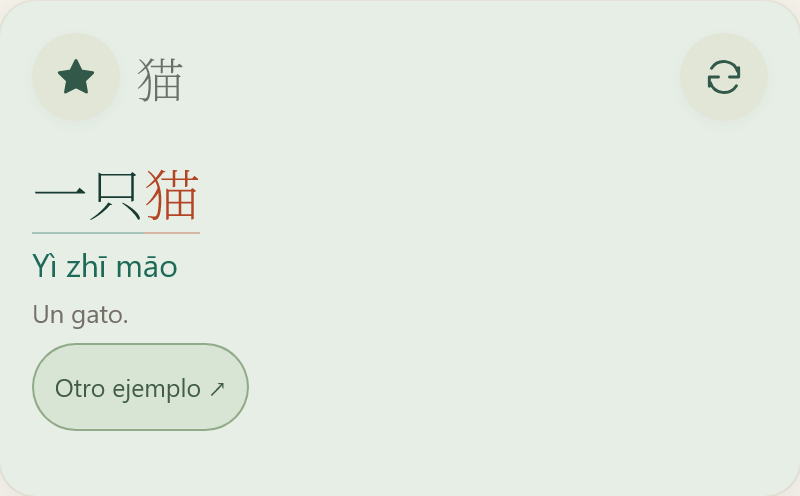
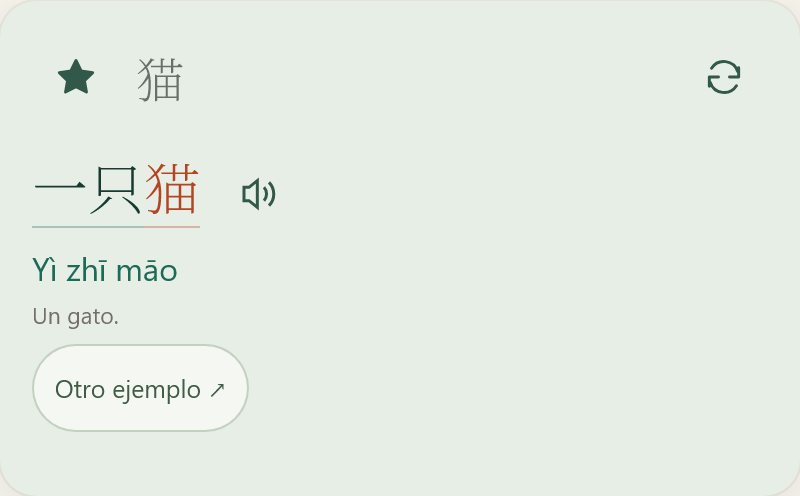
fix(vocabulary): support touch search and expanding mobile cards

diff --git a/components/vocabulary/ActiveVocabulary.tsx b/components/vocabulary/ActiveVocabulary.tsx
@@ -26,6 +26,7 @@ export function ActiveVocabulary({ scope, userId = 'guest', mode = 'catalog' }: 
   const [active, setActive] = useState(-1);
   const composing = useRef(false);
   const searchRef = useRef<HTMLInputElement>(null);
+  const suggestionTouch = useRef<{ id: string; x: number; y: number } | null>(null);
   const candidates = useMemo(() => getVocabularySet(scope).filter(w => !favoritesOnly || data.favorites.includes(w.id)), [scope, favoritesOnly, data.favorites]);
   const results = useMemo(() => searchVocabulary(candidates, query), [candidates, query]);
   const suggestions = searchGlobalVocabulary(query).slice(0, 6);
@@ -53,6 +54,7 @@ export function ActiveVocabulary({ scope, userId = 'guest', mode = 'catalog' }: 
     const index = getVocabularySet(destination).findIndex(word => word.id === id);
     const next = new URLSearchParams({ page: String(Math.floor(index / 24) + 1), card: id });
     resetCardFaces();
+    suggestionTouch.current = null;
     setOpen(false); setActive(-1);
     router.push(mix ? `/study/${destination}/games/vocabulary-mix?q=${encodeURIComponent(word.hanzi)}` : `/study/${destination}/vocabulary?${next}`, { scroll: false });
   }
@@ -74,13 +76,28 @@ export function ActiveVocabulary({ scope, userId = 'guest', mode = 'catalog' }: 
     <header className="vocabulary-heading"><div><p className="eyebrow">{mix ? '游戏' : '词汇'} · MÍNG</p><h1>{mix ? 'Vocabulario Mix' : 'Vocabulario'}</h1></div><small role="status">{saved ? 'Guardado en este dispositivo' : 'Almacenamiento no disponible; cambios solo en esta visita'}</small></header>
     <div className="vocabulary-toolbar">
       <div className="vocabulary-lesson-controls"><select aria-label="Lección" value={scope} onChange={e => { resetCardFaces(); const next = new URLSearchParams(params.toString()); for (const key of ['page', 'card', 'q', 'source', 'selection', 'level', 'mode']) next.delete(key); router.push(`/study/${e.target.value}/${section}?${next}`); }}>{lessonScopes.map((s, i) => <option key={s} value={s}>{s === 'l1-l2-l3' ? 'Acumulado' : `Lección ${i + 1}`}</option>)}</select><button type="button" aria-label="Solo favoritos" title="Solo favoritos de esta lección" aria-pressed={favoritesOnly} onClick={() => change({ favorites: favoritesOnly ? '' : '1', card: '' })}>{favoritesOnly ? '★' : '☆'}</button></div>
-      <div className="vocabulary-search"><label htmlFor="vocabulary-search">Buscar</label><div className="vocabulary-search-line"><input id="vocabulary-search" ref={searchRef} className={hanziInputClass(query)} value={query} role="combobox" aria-autocomplete="list" aria-controls="vocabulary-suggestions" aria-expanded={open} aria-activedescendant={open && active >= 0 && suggestions[active] ? `suggestion-${active}` : undefined} autoComplete="off" placeholder="Hanzi, pinyin o español" onFocus={() => { resetCardFaces(); setOpen(Boolean(query)); }} onBlur={() => setOpen(false)} onCompositionStart={() => { composing.current = true; }} onCompositionEnd={() => { composing.current = false; }} onChange={e => { change({ q: e.target.value, card: '' }); setOpen(Boolean(e.target.value)); setActive(-1); }} onKeyDown={e => {
+      <div className="vocabulary-search"><label htmlFor="vocabulary-search">Buscar</label><div className="vocabulary-search-line"><input id="vocabulary-search" ref={searchRef} className={hanziInputClass(query)} value={query} role="combobox" aria-autocomplete="list" aria-controls="vocabulary-suggestions" aria-expanded={open} aria-activedescendant={open && active >= 0 && suggestions[active] ? `suggestion-${active}` : undefined} autoComplete="off" placeholder="Hanzi, pinyin o español" onFocus={() => { resetCardFaces(); setOpen(Boolean(query)); }} onBlur={() => { if (!suggestionTouch.current) setOpen(false); }} onCompositionStart={() => { composing.current = true; }} onCompositionEnd={() => { composing.current = false; }} onChange={e => { change({ q: e.target.value, card: '' }); setOpen(Boolean(e.target.value)); setActive(-1); }} onKeyDown={e => {
         if (e.nativeEvent.isComposing || composing.current || e.keyCode === 229) return;
         if (e.key === 'Escape') { setOpen(false); setActive(-1); }
         if (e.key === 'ArrowDown' || e.key === 'ArrowUp') { e.preventDefault(); setOpen(true); setActive(i => suggestions.length ? (i + (e.key === 'ArrowDown' ? 1 : -1) + suggestions.length) % suggestions.length : -1); }
         if (e.key === 'Enter' && open && suggestions.length) { e.preventDefault(); navigateToVocabularyWord(suggestions[Math.max(0, active)].id); }
       }}/>{query && <button type="button" aria-label="Limpiar búsqueda" onClick={() => { change({ q: '', card: '' }); setOpen(false); searchRef.current?.focus(); }}>×</button>}</div>
-        {open && <ul id="vocabulary-suggestions" role="listbox" aria-label="Sugerencias">{suggestions.length ? suggestions.map((w, i) => <li key={w.id} id={`suggestion-${i}`} role="option" aria-selected={i === active} onPointerDown={e => e.preventDefault()} onClick={() => navigateToVocabularyWord(w.id)}><strong>{w.hanzi}</strong> <PinyinText>{w.pinyin}</PinyinText><span>{w.spanish} <small className="vocabulary-lesson-badge">L{getVocabularyLesson(w)}</small></span></li>) : <li role="presentation">Sin resultados en el vocabulario.</li>}</ul>}
+        {open && <ul id="vocabulary-suggestions" role="listbox" aria-label="Sugerencias">{suggestions.length ? suggestions.map((w, i) => <li key={w.id} id={`suggestion-${i}`} role="option" aria-selected={i === active}
+          onPointerDown={e => {
+            if (e.pointerType === 'mouse') e.preventDefault();
+            else suggestionTouch.current = { id: w.id, x: e.clientX, y: e.clientY };
+          }}
+          onPointerUp={e => {
+            const touch = suggestionTouch.current;
+            suggestionTouch.current = null;
+            if (touch?.id === w.id && Math.hypot(e.clientX - touch.x, e.clientY - touch.y) < 12) {
+              e.preventDefault();
+              searchRef.current?.blur();
+              navigateToVocabularyWord(w.id);
+            } else if (document.activeElement !== searchRef.current) setOpen(false);
+          }}
+          onPointerCancel={() => { suggestionTouch.current = null; if (document.activeElement !== searchRef.current) setOpen(false); }}
+          onClick={() => navigateToVocabularyWord(w.id)}><strong>{w.hanzi}</strong> <PinyinText>{w.pinyin}</PinyinText><span>{w.spanish} <small className="vocabulary-lesson-badge">L{getVocabularyLesson(w)}</small></span></li>) : <li role="presentation">Sin resultados en el vocabulario.</li>}</ul>}
       </div>
     </div>
     <p className="vocabulary-count" aria-live="polite">{results.length} {results.length === 1 ? 'palabra' : 'palabras'}</p>

diff --git a/components/vocabulary/vocabulary.css b/components/vocabulary/vocabulary.css
@@ -29,7 +29,12 @@
 
 /* Entire outer surface is golden. Long content or enlarged type may grow it. */
 .vocabulary-card, .vocabulary-mix-surface { position:relative; isolation:isolate; display:flex; flex-direction:column; width:100%; max-width:var(--vocab-max-width); min-width:0; aspect-ratio:var(--vocab-ratio); padding:var(--vocab-padding); border:0; border-radius:var(--vocab-radius); background:var(--vocab-surface); box-shadow:var(--vocab-shadow),0 0 0 1px #ded9cd80; color:var(--vocab-ink); overflow-wrap:anywhere; scroll-margin-top:6rem; }
-.vocabulary-card { transition:background-color .18s ease; }
+.vocabulary-card { display:grid; grid-template-columns:minmax(0,1fr); padding:0; aspect-ratio:auto; transition:background-color .18s ease; }
+/* A spacer sets the minimum golden height; the content can grow the same row.
+   Avoid flex/aspect-ratio intrinsic sizing that can overflow long backs in Safari. */
+.vocabulary-card::before { content:""; grid-area:1 / 1; width:100%; aspect-ratio:var(--vocab-ratio); pointer-events:none; }
+.vocabulary-card-body { grid-area:1 / 1; min-width:0; display:flex; flex-direction:column; padding:var(--vocab-padding); }
+.vocabulary-card-body > * { flex-shrink:0; }
 .vocabulary-card.is-search-target { outline:3px solid var(--vocab-focus); outline-offset:3px; }
 .vocabulary-card-tools { position:relative; z-index:3; display:flex; justify-content:space-between; gap:.5rem; min-height:var(--vocab-touch); margin-bottom:.5rem; pointer-events:none; }
 .active-vocabulary .vocabulary-card-tools button { display:grid; place-items:center; flex:none; width:var(--vocab-touch); height:var(--vocab-touch); padding:10px; border:0; border-radius:50%; color:var(--vocab-ink); background:transparent; box-shadow:none; pointer-events:auto; }
@@ -62,12 +67,12 @@
 .vocabulary-card-back { margin-top:0; }
 .vocabulary-card-tools .vocabulary-reverse-label { flex:1; min-width:0; align-self:center; pointer-events:auto; }
 .vocabulary-card.is-reversed .vocabulary-word, .vocabulary-card.is-reversed .vocabulary-word .linked-hanzi { color:var(--vocab-reverse-word); font-weight:400; font-size:var(--vocab-reverse-word-size); border-bottom-color:transparent; }
-.vocabulary-example { padding-top:.2rem; }
+.vocabulary-example { padding-top:0; }
 .vocabulary-example-text { font-size:var(--vocab-sentence-size); line-height:1.5; margin:0; }
 .vocabulary-example-target { color:var(--vocab-target); background:transparent; font-weight:var(--vocab-target-weight); }
 .vocabulary-example-target .linked-hanzi { color:inherit; font-weight:inherit; border-bottom-color:#b3442455; }
-.active-vocabulary .vocabulary-next-example { margin-top:.4rem; min-height:var(--vocab-touch); padding:.25rem .65rem; font-size:.78rem; border-radius:999px; background:transparent; border-color:transparent; color:#415d46; }
-.active-vocabulary .vocabulary-next-example:hover { background:transparent; border-color:transparent; text-decoration:underline; }
+.active-vocabulary .vocabulary-next-example { margin-top:.4rem; min-height:var(--vocab-touch); padding:.25rem .65rem; font-size:.78rem; border-radius:999px; background:#f5f8f2; border-color:#c4d1c0; color:#415d46; }
+.active-vocabulary .vocabulary-next-example:hover { background:#d9e5d4; border-color:#91aa89; }
 .vocabulary-pagination { display:flex; justify-content:center; align-items:center; gap:1rem; margin-top:1.2rem; }
 
 .vocabulary-mix { max-width:42rem; margin:auto; }
@@ -91,7 +96,7 @@
   .vocabulary-heading { align-items:start; }
   .vocabulary-heading small { max-width:9rem; font-size:.7rem; }
   .vocabulary-grid { gap:var(--vocab-mobile-gap); }
-  .vocabulary-card, .vocabulary-mix-surface { padding:var(--vocab-mobile-padding); }
+  .vocabulary-card-body, .vocabulary-mix-surface { padding:var(--vocab-mobile-padding); }
   .vocabulary-word, .vocabulary-mix-hanzi { font-size:var(--vocab-word-mobile-size); }
   .vocabulary-example-text { font-size:var(--vocab-sentence-mobile-size); }
 }

diff --git a/tests/e2e/vocabulary-mobile.spec.ts b/tests/e2e/vocabulary-mobile.spec.ts
@@ -1,0 +1,57 @@
+import { test, expect } from '@playwright/test';
+
+test.use({ viewport: { width: 390, height: 844 }, isMobile: true, hasTouch: true });
+
+test('touch search opens gaoxing in its own lesson even when the input blurs', async ({ page }) => {
+  await page.goto('/study/l3/vocabulary?favorites=1');
+  await expect(page.locator('.active-vocabulary')).toHaveAttribute('data-ready', 'true');
+  const search = page.getByRole('combobox', { name: 'Buscar', exact: true });
+  await search.fill('gaoxing');
+  const option = page.getByRole('option').filter({ hasText: '高兴' });
+  await expect(option).toBeVisible();
+  // Mobile keyboards may blur the input between touching and releasing a result.
+  await option.dispatchEvent('pointerdown', { pointerType: 'touch', pointerId: 1, clientX: 30, clientY: 30 });
+  await search.evaluate(input => (input as HTMLInputElement).blur());
+  await option.dispatchEvent('pointerup', { pointerType: 'touch', pointerId: 1, clientX: 30, clientY: 30 });
+  await expect(page.getByRole('combobox', { name: 'Lección', exact: true })).toHaveValue('l1');
+  await expect(page.getByRole('article', { name: 'Ficha de 高兴', exact: true })).toBeInViewport();
+  await expect(search).toHaveValue('');
+  await expect(page).not.toHaveURL(/favorites=|q=/);
+  await page.reload();
+  await expect(page.getByRole('article', { name: 'Ficha de 高兴', exact: true })).toBeInViewport();
+});
+
+test('a mobile tap selects a global suggestion', async ({ page }) => {
+  await page.goto('/study/l3/vocabulary');
+  await expect(page.locator('.active-vocabulary')).toHaveAttribute('data-ready', 'true');
+  await page.getByRole('combobox', { name: 'Buscar', exact: true }).fill('gaoxing');
+  const box = await page.getByRole('option').filter({ hasText: '高兴' }).boundingBox();
+  await page.touchscreen.tap(box!.x + box!.width / 2, box!.y + box!.height / 2);
+  await expect(page.getByRole('combobox', { name: 'Lección', exact: true })).toHaveValue('l1');
+  await expect(page.getByRole('article', { name: 'Ficha de 高兴', exact: true })).toBeInViewport();
+});
+
+for (const width of [320, 390]) test(`long reverse examples grow and keep the next button inside at ${width}px`, async ({ page }) => {
+  await page.setViewportSize({ width, height: 844 });
+  await page.goto('/study/l3/vocabulary?q=猫');
+  await expect(page.locator('.active-vocabulary')).toHaveAttribute('data-ready', 'true');
+  const card = page.getByRole('article', { name: 'Ficha de 猫', exact: true });
+  await card.getByRole('button', { name: 'Ver ejemplo: 猫', exact: true }).click();
+  const short = await card.boundingBox();
+  const next = card.getByRole('button', { name: 'Otro ejemplo', exact: true });
+  await next.click();
+  await next.click();
+  await expect(card.locator('.vocabulary-example-text')).toContainText('我有两只小猫');
+  const long = await card.boundingBox();
+  const button = await next.boundingBox();
+  expect(long!.height).toBeGreaterThan(short!.height);
+  expect(button!.y + button!.height).toBeLessThanOrEqual(long!.y + long!.height - 8);
+  await next.click();
+  await expect(card.locator('.vocabulary-example-text')).toHaveText('一只猫');
+  await page.addStyleTag({ content: 'html { font-size:32px!important }' });
+  await next.click();
+  await next.click();
+  const enlarged = await card.boundingBox();
+  const enlargedButton = await next.boundingBox();
+  expect(enlargedButton!.y + enlargedButton!.height).toBeLessThanOrEqual(enlarged!.y + enlarged!.height - 8);
+});

diff --git a/components/vocabulary/VocabularyCard.tsx b/components/vocabulary/VocabularyCard.tsx
@@ -41,6 +41,7 @@ export function VocabularyCard({ word, scope, route, back, favorite, hideTransla
     {photo && (hasExamples
       ? <button className="vocabulary-image-flip" type="button" aria-label={`Consultar ejemplo: ${word.hanzi}`} onClick={onFlip}>{photo}</button>
       : photo)}
+    <div className="vocabulary-card-body">
     <div className="vocabulary-card-tools">
       <button type="button" className="vocabulary-favorite" aria-label={`Favorito: ${word.hanzi}`} aria-pressed={favorite} onClick={onFavorite}>
         <svg aria-hidden="true" viewBox="0 0 24 24" fill={favorite ? 'currentColor' : 'none'} stroke="currentColor" strokeWidth="1.6" strokeLinejoin="round"><path d="m12 3 2.8 5.7 6.3.9-4.5 4.4 1.1 6.2L12 17.3l-5.7 2.9 1.1-6.2L2.9 9.6l6.3-.9Z"/></svg>
@@ -57,5 +58,6 @@ export function VocabularyCard({ word, scope, route, back, favorite, hideTransla
       <p className="word-pinyin"><PinyinText>{word.pinyin}</PinyinText></p>
       <p className="vocabulary-translation">{hideTranslation ? 'Traducción oculta' : word.spanish}</p>
     </div>}
+    </div>
   </article>;
 }

diff --git a/playwright.vocabulary.config.ts b/playwright.vocabulary.config.ts
@@ -1,2 +1,2 @@
 import { defineConfig, devices } from '@playwright/test';
-export default defineConfig({ testDir: './tests/e2e', testMatch: ['vocabulary.spec.ts', 'vocabulary-audio.spec.ts'], timeout: 60000, workers: 2, use: { baseURL: 'http://localhost:3100', serviceWorkers: 'block', trace: 'retain-on-failure' }, projects: [{ name: 'chromium', use: { ...devices['Desktop Chrome'] } }, { name: 'webkit', use: { ...devices['Desktop Safari'] } }] });
+export default defineConfig({ testDir: './tests/e2e', testMatch: ['vocabulary.spec.ts', 'vocabulary-audio.spec.ts', 'vocabulary-mobile.spec.ts'], timeout: 60000, workers: 2, use: { baseURL: 'http://localhost:3100', serviceWorkers: 'block', trace: 'retain-on-failure' }, projects: [{ name: 'chromium', use: { ...devices['Desktop Chrome'] } }, { name: 'webkit', use: { ...devices['Desktop Safari'] } }] });

diff --git a/MING_KNOWLEDGE/design/VOCABULARY_STYLE.md b/MING_KNOWLEDGE/design/VOCABULARY_STYLE.md
@@ -170,4 +170,11 @@ es únicamente referencia visual.
 
 ## Ajuste aprobado: 25 de septiembre de 2026
 
+Corrección móvil posterior: «Otro ejemplo» conserva su fondo claro `#f5f8f2`
+y borde salvia `#c4d1c0`; es la excepción a los controles transparentes.
+La proporción áurea establece una altura mínima, y el contenido del reverso
+puede ampliar la ficha completa para mantener visible el botón. Seleccionar
+una sugerencia global con un toque cambia a la lección de la palabra y elimina
+los filtros que impedirían mostrarla.
+
 Hanzi principal +20 % (43.2 px; 38.4 px móvil), traducción −10 % adicional (11.52 px), pinyin sin cambios (16 px). Botones de la ficha transparentes, sin fondo ni sombra, con área táctil de 44 px y foco visible. Eliminar el panel blanco localizado detrás del texto; conservar únicamente la transición global suave de la fotografía a la izquierda. Estas indicaciones sustituyen los fondos de controles descritos en la versión inicial.

diff --git a/MING_KNOWLEDGE/design/VOCABULARY_IMPLEMENTATION_PROMPT.md b/MING_KNOWLEDGE/design/VOCABULARY_IMPLEMENTATION_PROMPT.md
@@ -167,4 +167,10 @@ marcar un recurso como listo; una generación exitosa no garantiza su ajuste.
 
 ## Ajuste aprobado: 25 de septiembre de 2026
 
+En móvil, seleccionar una sugerencia global debe completar la navegación aunque
+el teclado retire el foco durante el toque; actualizar el selector de lección.
+El reverso debe crecer con todas las líneas y conservar «Otro ejemplo» dentro
+de la superficie. Este botón mantiene fondo claro y borde salvia; los iconos
+de favorito, giro y audio permanecen transparentes.
+
 Hanzi principal +20 % (43.2 px; 38.4 px móvil), traducción −10 % adicional (11.52 px), pinyin sin cambios (16 px). Botones de la ficha transparentes, sin fondo ni sombra, con área táctil de 44 px y foco visible. Eliminar el panel blanco localizado detrás del texto; conservar únicamente la transición global suave de la fotografía a la izquierda. Estas indicaciones sustituyen los fondos de controles descritos en la versión inicial.
